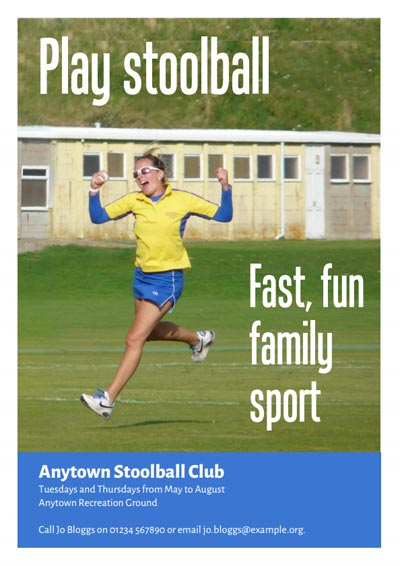
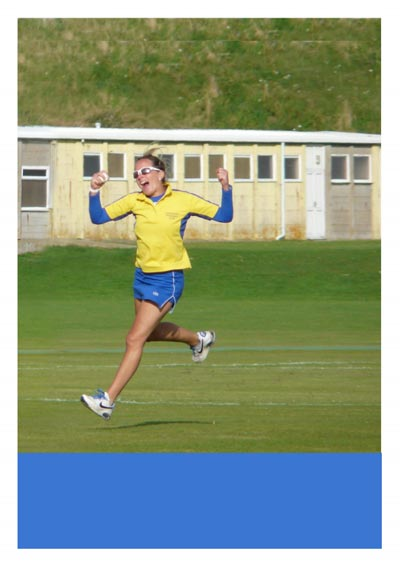
Add live preview

diff --git a/public_html/play/posters/preview.js b/public_html/play/posters/preview.js
@@ -1,0 +1,18 @@
+if (typeof(jQuery)!=='undefined') {
+	$(function(){
+		
+		function wireUpPreview(fieldSelector, previewSelector){
+			var field = $(fieldSelector);
+			function updatePreview() {
+				$(previewSelector).html(field.val().replace(/\n/g, '<br />'));
+			}
+			field.keyup(updatePreview);
+			updatePreview();
+		}
+		
+		wireUpPreview("#title", "#preview-title");
+		wireUpPreview("#teaser", "#preview-teaser");
+		wireUpPreview("#name", "#preview-name");
+		wireUpPreview("#details", "#preview-details");
+	});
+}

diff --git a/public_html/play/posters/index.php b/public_html/play/posters/index.php
@@ -9,8 +9,13 @@ class CurrentPage extends StoolballPage
 	{
 	    $this->SetPageTitle('Create a poster');
         ?>
-        <style>
-            .pdf-preview { border: 1px solid #555; float: left; margin: 1em 0 ;}
+         <link href='https://fonts.googleapis.com/css?family=Oswald|Alegreya+Sans:800,500' rel='stylesheet' type='text/css'>
+         <style>
+            #preview { border: 1px solid #555; float: left; margin: 1em 0 ; position:relative; }
+            #preview-title { position: absolute; top: 25px; left: 30px; width: 340px; font: normal 55px 'Oswald'; color: #fff;margin: 0; }
+            #preview-teaser { position: absolute; top: 270px; left: 230px; font: normal 40px/1.2em 'Oswald'; color: #fff; width: 140px; margin: 0; }
+            #preview-name { position: absolute; top: 460px; left: 30px; width: 340px; font: 800 20px 'Alegreya Sans'; color: #fff; margin: 0; }
+            #preview-details { position: absolute; top: 485px; left: 30px; width: 340px; font: 500 12px 'Alegreya Sans'; color: #fff;  margin: 0; }
             
             form.poster { width: 250px; float: left; padding: 0 30px; }
             form.poster label { font-weight: bold; margin: 1em 0 .5em; }
@@ -18,8 +23,10 @@ class CurrentPage extends StoolballPage
             form.poster #teaser { height: 4em; min-height: 0;} 
             form.poster #details { height: 10em; min-height: 0;}
             form.poster .buttonGroup { margin-top: 0; } 
+            
         </style>
         <?php
+        $this->LoadClientScript("/play/posters/preview.js");
     }
 
 	function OnPageLoad()
@@ -27,7 +34,14 @@ class CurrentPage extends StoolballPage
 ?>
         <h1>Create a poster</h1>
         <p>Create a professional poster to promote your league, club or tournament. Simply fill in your details and click 'Download poster'.</p>
-        <img src="connie-preview.jpg" width="400" alt="Poster preview: A female player in blue and yellow celebrates a catch" class="pdf-preview" />
+        <div id="preview">
+        <img src="connie-preview.jpg" width="400" alt="Poster preview: A female player in blue and yellow celebrates a catch" />
+        <p id="preview-title" role="presentation"></p>
+        <p id="preview-teaser" role="presentation"></p>
+        <p id="preview-name" role="presentation"></p>
+        <p id="preview-details" role="presentation"></p>
+        </div>
+        
         <form method="post" action="poster-pdf.php" class="poster">
             <label for="title">Title</label>
             <input type="text" name="title" id="title" value="Play stoolball" />
